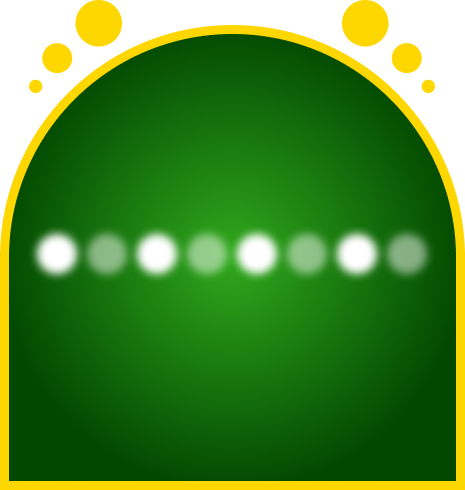
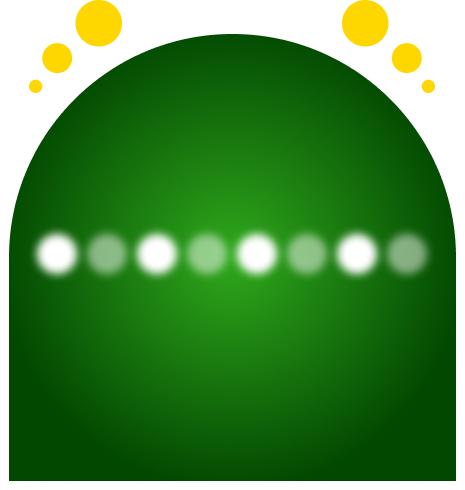
more changes

Changed region(s): [[0.0, 0.0306, 1.0, 1.0]]

diff --git a/lib/screens/home.dart b/lib/screens/home.dart
@@ -20,6 +20,16 @@ class Home extends StatefulWidget {
 }
 
 class _HomeState extends State<Home> {
+  List<double> borderWidth = [1, 2, 1, 1];
+  int selectedIndex = 0;
+
+  @override
+  void initState() {
+    // TODO: implement initState
+    super.initState();
+    // startBorderAnimation();
+  }
+
   @override
   Widget build(BuildContext context) {
     return SafeArea(
@@ -45,11 +55,11 @@ class _HomeState extends State<Home> {
                 padding: const EdgeInsets.all(5),
                 child: Text(
                   '23216 PLAYERS ONLINE',
-                  style: Constants.tsbg14,
+                  style: Constants.tsbw14,
                 ),
               ),
               Container(
-                height: 529,
+                height: 542,
                 padding: const EdgeInsets.symmetric(
                   horizontal: 20,
                 ),
@@ -122,77 +132,117 @@ class _HomeState extends State<Home> {
                       Container(
                         padding: const EdgeInsets.all(4),
                         decoration: BoxDecoration(
-                            borderRadius: BorderRadius.circular(20),
-                            border: Border.all(
-                              color: Constants.colorGolden,
-                              width: 2,
-                            )),
+                          borderRadius: BorderRadius.circular(20),
+                          // border: Border.all(
+                          //   color: Constants.colorGolden,
+                          //   width: 2,
+                          // ),
+                        ),
                         child: Row(
                           mainAxisAlignment: MainAxisAlignment.spaceBetween,
                           crossAxisAlignment: CrossAxisAlignment.center,
                           children: [
-                            Container(
-                              padding: const EdgeInsets.all(10),
-                              decoration: BoxDecoration(
-                                color: Constants.colorGolden,
-                                borderRadius: BorderRadius.circular(15),
-                              ),
-                              child: Column(
-                                crossAxisAlignment: CrossAxisAlignment.center,
-                                children: [
-                                  Image.asset('assets/cashGame.png'),
-                                  const SizedBox(
-                                    height: 5,
+                            GestureDetector(
+                              onTap: () {
+                                setState(() {
+                                  selectedIndex = 0;
+                                });
+                              },
+                              child: Opacity(
+                                opacity: selectedIndex == 0 ? 1 : 0.4,
+                                child: Container(
+                                  padding: const EdgeInsets.all(10),
+                                  decoration: BoxDecoration(
+                                    color: Constants.colorGolden,
+                                    borderRadius: BorderRadius.circular(15),
                                   ),
-                                  Text(
-                                    'Cash Game',
-                                    style: Constants.tsbb14,
-                                  )
-                                ],
+                                  child: Column(
+                                    crossAxisAlignment:
+                                        CrossAxisAlignment.center,
+                                    children: [
+                                      Image.asset('assets/cashGame.png'),
+                                      const SizedBox(
+                                        height: 5,
+                                      ),
+                                      Text(
+                                        'Cash Game',
+                                        style: Constants.tsbb14,
+                                      )
+                                    ],
+                                  ),
+                                ),
                               ),
                             ),
                             GestureDetector(
                               onTap: () {
+                                setState(() {
+                                  selectedIndex = 1;
+                                });
                                 Navigator.of(context).push(MaterialPageRoute(
                                     builder: (context) => const Game()));
                               },
-                              child: Container(
-                                padding: const EdgeInsets.all(10),
-                                decoration: BoxDecoration(
-                                  borderRadius: BorderRadius.circular(15),
-                                ),
-                                child: Column(
-                                  crossAxisAlignment: CrossAxisAlignment.center,
-                                  children: [
-                                    Image.asset('assets/practiceMode.png'),
-                                    const SizedBox(
-                                      height: 5,
-                                    ),
-                                    Text(
-                                      'Practice Mode',
-                                      style: Constants.tsbw14,
-                                    )
-                                  ],
+                              child: Opacity(
+                                opacity: selectedIndex == 1 ? 1 : 0.4,
+                                child: Container(
+                                  padding: const EdgeInsets.all(10),
+                                  decoration: BoxDecoration(
+                                    color: Constants.colorGolden,
+                                    borderRadius: BorderRadius.circular(15),
+                                  ),
+                                  child: Column(
+                                    crossAxisAlignment:
+                                        CrossAxisAlignment.center,
+                                    children: [
+                                      const Icon(
+                                        Icons.sports_baseball_rounded,
+                                        color: Colors.black,
+                                        size: 26,
+                                      ),
+                                      const SizedBox(
+                                        height: 5,
+                                      ),
+                                      Text(
+                                        'Practice Mode',
+                                        style: Constants.tsbb14,
+                                      )
+                                    ],
+                                  ),
                                 ),
                               ),
                             ),
-                            Container(
-                              padding: const EdgeInsets.all(10),
-                              decoration: BoxDecoration(
-                                borderRadius: BorderRadius.circular(15),
-                              ),
-                              child: Column(
-                                crossAxisAlignment: CrossAxisAlignment.center,
-                                children: [
-                                  Image.asset('assets/tournament.png'),
-                                  const SizedBox(
-                                    height: 5,
+                            GestureDetector(
+                              onTap: () {
+                                setState(() {
+                                  selectedIndex = 2;
+                                });
+                              },
+                              child: Opacity(
+                                opacity: selectedIndex == 2 ? 1 : 0.4,
+                                child: Container(
+                                  padding: const EdgeInsets.all(10),
+                                  decoration: BoxDecoration(
+                                    color: Constants.colorGolden,
+                                    borderRadius: BorderRadius.circular(15),
                                   ),
-                                  Text(
-                                    'Tournament',
-                                    style: Constants.tsbw16,
-                                  )
-                                ],
+                                  child: Column(
+                                    crossAxisAlignment:
+                                        CrossAxisAlignment.center,
+                                    children: [
+                                      const Icon(
+                                        Icons.workspace_premium_rounded,
+                                        color: Colors.black,
+                                        size: 26,
+                                      ),
+                                      const SizedBox(
+                                        height: 5,
+                                      ),
+                                      Text(
+                                        'Tournament',
+                                        style: Constants.tsbb16,
+                                      )
+                                    ],
+                                  ),
+                                ),
                               ),
                             ),
                           ],
@@ -225,8 +275,8 @@ class _HomeState extends State<Home> {
                                     Container(
                                       width: double.infinity,
                                       padding: const EdgeInsets.only(
-                                        top: 40,
-                                        bottom: 20,
+                                        top: 60,
+                                        bottom: 40,
                                         left: 15,
                                         right: 15,
                                       ),
@@ -248,7 +298,10 @@ class _HomeState extends State<Home> {
                                     ),
                                     Container(
                                       width: double.infinity,
-                                      padding: const EdgeInsets.all(10),
+                                      padding: const EdgeInsets.symmetric(
+                                        horizontal: 10,
+                                        vertical: 15,
+                                      ),
                                       child: Text(
                                         'SELECT TABLE',
                                         textAlign: TextAlign.center,
@@ -284,8 +337,8 @@ class _HomeState extends State<Home> {
                                     Container(
                                       width: double.infinity,
                                       padding: const EdgeInsets.only(
-                                        top: 40,
-                                        bottom: 20,
+                                        top: 60,
+                                        bottom: 40,
                                         left: 15,
                                         right: 15,
                                       ),
@@ -307,7 +360,10 @@ class _HomeState extends State<Home> {
                                     ),
                                     Container(
                                       width: double.infinity,
-                                      padding: const EdgeInsets.all(10),
+                                      padding: const EdgeInsets.symmetric(
+                                        horizontal: 10,
+                                        vertical: 15,
+                                      ),
                                       child: Text(
                                         'SELECT TABLE',
                                         textAlign: TextAlign.center,
@@ -330,6 +386,24 @@ class _HomeState extends State<Home> {
                         decoration: BoxDecoration(
                           color: Colors.white,
                           borderRadius: BorderRadius.circular(20),
+                          // border: Border(
+                          //   top: BorderSide(
+                          //     color: Constants.colorGolden,
+                          //     width: borderWidth[0],
+                          //   ),
+                          //   right: BorderSide(
+                          //     color: Constants.colorGolden,
+                          //     width: borderWidth[1],
+                          //   ),
+                          //   bottom: BorderSide(
+                          //     color: Constants.colorGolden,
+                          //     width: borderWidth[2],
+                          //   ),
+                          //   left: BorderSide(
+                          //     color: Constants.colorGolden,
+                          //     width: borderWidth[3],
+                          //   ),
+                          // ),
                         ),
                         alignment: Alignment.center,
                         child: Text(
@@ -368,7 +442,7 @@ class _HomeState extends State<Home> {
                           children: [
                             Icon(
                               Icons.games_rounded,
-                              color: Constants.colorGolden,
+                              color: Colors.white,
                             ),
                             const SizedBox(
                               height: 5,
@@ -376,7 +450,7 @@ class _HomeState extends State<Home> {
                             Text(
                               'MY\nGAMES',
                               textAlign: TextAlign.center,
-                              style: Constants.tsbg14,
+                              style: Constants.tsbw14,
                             )
                           ],
                         ),
@@ -397,7 +471,7 @@ class _HomeState extends State<Home> {
                           children: [
                             Icon(
                               Icons.account_balance_wallet_rounded,
-                              color: Constants.colorGolden,
+                              color: Colors.white,
                             ),
                             const SizedBox(
                               height: 5,
@@ -405,7 +479,7 @@ class _HomeState extends State<Home> {
                             Text(
                               'REFER & EARN\n₹ 1000',
                               textAlign: TextAlign.center,
-                              style: Constants.tsbg14,
+                              style: Constants.tsbw14,
                             )
                           ],
                         ),
@@ -426,7 +500,7 @@ class _HomeState extends State<Home> {
                           children: [
                             Icon(
                               Icons.redeem_rounded,
-                              color: Constants.colorGolden,
+                              color: Colors.white,
                             ),
                             const SizedBox(
                               height: 5,
@@ -434,7 +508,7 @@ class _HomeState extends State<Home> {
                             Text(
                               'BONUS\n₹ 900',
                               textAlign: TextAlign.center,
-                              style: Constants.tsbg14,
+                              style: Constants.tsbw14,
                             )
                           ],
                         ),
@@ -455,7 +529,7 @@ class _HomeState extends State<Home> {
                           children: [
                             Icon(
                               Icons.payments_rounded,
-                              color: Constants.colorGolden,
+                              color: Colors.white,
                             ),
                             const SizedBox(
                               height: 5,
@@ -463,7 +537,7 @@ class _HomeState extends State<Home> {
                             Text(
                               'ADD CASH\n₹ 587',
                               textAlign: TextAlign.center,
-                              style: Constants.tsbg14,
+                              style: Constants.tsbw14,
                             )
                           ],
                         ),
